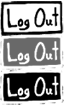
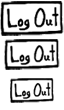
more image assets

diff --git a/app/stylesheets/_header.sass b/app/stylesheets/_header.sass
@@ -11,6 +11,10 @@
     :height 50px
     :background url('/images/logo.png') no-repeat
     :margin 10px 30px
+    &:hover
+      :background-position 0 -50px
+    &:active
+      :background-position 0 -100px
   #user_nav
     :margin 25px
     :float right
